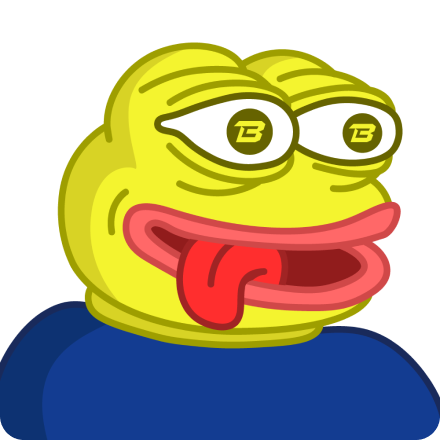
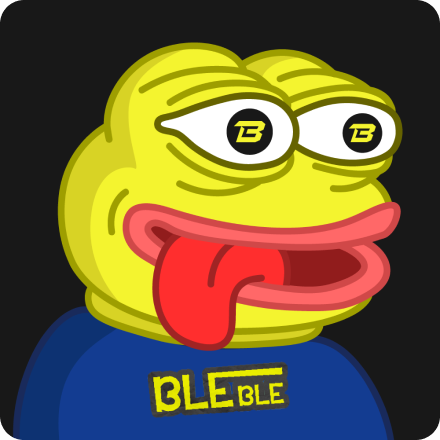
update ui

diff --git a/src/modules/Home/components/Nftnomics/index.tsx b/src/modules/Home/components/Nftnomics/index.tsx
@@ -1,5 +1,13 @@
 "use client";
-import { Box, Flex, SimpleGrid, Stack, Text } from "@chakra-ui/react";
+import {
+  Box,
+  Flex,
+  ListItem,
+  SimpleGrid,
+  Stack,
+  Text,
+  UnorderedList,
+} from "@chakra-ui/react";
 import gsap from "gsap";
 import { ScrollTrigger } from "gsap/dist/ScrollTrigger";
 import Image from "next/image";
@@ -51,22 +59,33 @@ export default function HomeNftnomics(): React.ReactElement {
 
         <Stack spacing={6} ref={textRef} justifyContent="center">
           <Title className={s.nftnomics_title} color="brand.yellow.100">
-            Nft nomics
+            Nft Nomics
           </Title>
           <Stack gap={0}>
             <Title size="md" color="brand.yellow.100">
-              Total supply:
-            </Title>
-            <Title size="md" color="brand.yellow.100">
-              100,000,000
+              Total NFT: Coming soon
             </Title>
           </Stack>
-          <Text fontSize="3xl" color="brand.yellow.100">
-            No Taxes, No Bullshit. It’s that simple.
-          </Text>
+          <UnorderedList>
+            <ListItem>
+              <Text fontSize="2xl" color="brand.yellow.100">
+                2% Airdrop (NFT holders, Staked ETH on Blast, $PePe Holders …)
+              </Text>
+            </ListItem>
+            <ListItem>
+              <Text fontSize="2xl" color="brand.yellow.100">
+                PreSale: 48% for Add LP
+              </Text>
+            </ListItem>
+            <ListItem>
+              <Text fontSize="2xl" color="brand.yellow.100">
+                Add LP (NFT/ETH): 100%
+              </Text>
+            </ListItem>
+          </UnorderedList>
 
-          <Text fontSize="3xl" color="brand.yellow.100">
-            LP tokens are burnt, and contract ownership is renounced.
+          <Text fontSize="2xl" color="brand.yellow.100">
+            LP Are Burnt, contract Ownership is Renounced.
           </Text>
         </Stack>
       </SimpleGrid>

diff --git a/src/modules/Home/components/Hero/index.tsx b/src/modules/Home/components/Hero/index.tsx
@@ -3,7 +3,6 @@ import Image from "next/image";
 
 import Container from "@/components/Container";
 import SvgInsert from "@/components/SvgInsert";
-import Title from "@/components/Title";
 
 import s from "./style.module.scss";
 
@@ -18,10 +17,14 @@ export default function HomeHero(): React.ReactElement {
           flexDirection={{ base: "column-reverse", md: "row" }}
         >
           <Stack className={s.hero_punchline} spacing={6}>
-            <Title color="brand.yellow.100">BLE BLE</Title>
+            {/* <Title color="brand.yellow.100">BLE BLE</Title> */}
+            <Box className={s.hero_title}>
+              <Image src={"/bleble.png"} alt="blble logo" fill />
+            </Box>
             <Text fontSize="3xl" color="brand.yellow.100">
-              the most memeable meme-NFT in existence. The Monkeys have had
-              their day, it’s time for Ble Ble to take reign.
+              The First Pure MemeNFT in the Crypto Space (ERC-721, ERC-1155 &
+              ERC-404). The Blast L2 begins, it’s time for Ble Ble to take
+              reign.
             </Text>
             <HStack spacing={6}>
               <IconButton
@@ -37,14 +40,14 @@ export default function HomeHero(): React.ReactElement {
                 aria-label="telegram"
               />
             </HStack>
-            <Box className={s.hero_blastBtn_wrapper}>
+            {/* <Box className={s.hero_blastBtn_wrapper}>
               <Box className={s.hero_blastBtn}>
                 <Image src="/branding/blast.png" alt="blast" fill />
               </Box>
-            </Box>
+            </Box> */}
           </Stack>
           <Box className={s.hero_mascot}>
-            <Image src="/bleble-face.png" alt="ble ble face" fill />
+            <Image src="/bleble-group.png" alt="ble ble face" fill />
           </Box>
         </HStack>
       </Stack>

diff --git a/src/modules/Home/components/Contact/index.tsx b/src/modules/Home/components/Contact/index.tsx
@@ -11,12 +11,12 @@ export default function HomeContact(): React.ReactElement {
   return (
     <Container>
       <Flex justifyContent="center" className={s.contact}>
-        <VStack spacing={6} maxW="825px">
+        <VStack spacing={6} maxW="625px">
           <Title className={s.contact_title} color="brand.yellow.100">
             Contact
           </Title>
           <Box className={s.contact_logo}>
-            <Image src="/bleble.png" alt="logo" fill />
+            <Image src="/bleble-face.png" alt="logo" fill />
           </Box>
           <HStack spacing={6}>
             <IconButton
@@ -33,13 +33,9 @@ export default function HomeContact(): React.ReactElement {
             />
           </HStack>
           <Text fontSize="3xl" color="brand.yellow.100" textAlign="center">
-            Ble Ble NFT has no association. This NFT is simply paying homage to
-            a meme we all love and recognize.
-          </Text>
-          <Text fontSize="3xl" color="brand.yellow.100" textAlign="center">
-            Ble Ble is a meme NFT with no intrinsic value or expectation of
-            financial return. There is no formal team or roadmap. the coin is
-            completely useless and for entertainment purposes only.
+            Ble Ble NFT has no organization, no leader, no roadmap - so Ble Ble
+            has no intrinsic value. Ble Ble is simply yours, for you and for
+            strong Blast community.
           </Text>
         </VStack>
       </Flex>

diff --git a/src/constants/howToBuySteps.ts b/src/constants/howToBuySteps.ts
@@ -1,18 +1,18 @@
 export const howToBuySteps = [
   {
     image: "/metamask.png",
-    title: "Create a Wallet",
-    desc: "Download metamask or your wallet of choice from the app store or google play store for free. Desktop users, download the google chrome extension by going to metamask.io.",
+    title: "Config Blast L2 on MetaMask",
+    desc: `Network: Blast Mainnet\nRPC: http://mainnet.blast.io\nID: 81457\nSymbol: ETH\nExplorer: https://blastscan.io`,
   },
   {
     image: "/eth.png",
     title: "Get Some ETH",
-    desc: "Have ETH in your wallet to switch to BLE BLE. If you don’t have any ETH, you can buy directly on metamask, transfer from another wallet, or buy on another exchange and send it to your wallet.",
+    desc: "Have ETH on Blast in your wallet to get to BLE BLE memeNFT.",
   },
   {
     image: "/amm.png",
-    title: "Go to AMM",
-    desc: "Connect to AMM. Go to Demask.finance in google chrome or on the browser inside your Metamask app. Connect your wallet. Select BLE BLE, and confirm. When Metamask prompts you for a wallet signature, sign.",
+    title: "Go to NFT Dexs on Blast",
+    desc: "Go to NFT Dexs in google chrome or on the browser inside your Metamask app. Select BLE BLE NFT, and confirm. Congratulations on becoming a Blast member.",
   },
   {
     image: "/digital.png",

diff --git a/src/modules/Home/components/About/index.tsx b/src/modules/Home/components/About/index.tsx
@@ -37,17 +37,16 @@ export default function HomeAbout(): React.ReactElement {
           <Box className={s.about_mascot}>
             <Image src="/bleble-body.png" alt="ble ble face" fill />
           </Box>
-
           <Stack spacing={4}>
             <Title color="brand.yellow.100">About</Title>
             <Text fontSize="3xl" color="brand.yellow.100">
-              Blast Has Ble Ble
+              Ble Ble is a funny meme nft for the people, forever (zero taxes,
+              LP burnt and contract renounced).
             </Text>
+
             <Text fontSize="3xl" color="brand.yellow.100">
-              Ble Ble is here to make meme NFT great again. Launched stealth
-              with no presale, zero taxes, LP burnt and contract renounced, Ble
-              Ble is a coin for the people, forever. Fueled by pure memetic
-              power, let Ble Ble show you the way.
+              Ble Ble is here to make the Blast community great. Fueled by pure
+              memetic power, let Ble Ble show you the way to Blast.
             </Text>
           </Stack>
         </SimpleGrid>

diff --git a/src/modules/Home/components/Roadmap/index.tsx b/src/modules/Home/components/Roadmap/index.tsx
@@ -11,17 +11,17 @@ export default function HomeRoadmap(): React.ReactElement {
     <Container className={s.roadmap}>
       <VStack spacing={6} className={s.roadmap_inner}>
         <Title className={s.roadmap_title} color="brand.yellow.100">
-          Roadmap
+          3 Phases
         </Title>
         <Stack>
           <Text fontSize="3xl" color="brand.yellow.100">
-            Phase 1: Meme
+            Phase 1: Release MemeNFT.
           </Text>
           <Text fontSize="3xl" color="brand.yellow.100">
-            Phase 2: Vibe and HODL
+            Phase 2: Own & make Avatar.
           </Text>
           <Text fontSize="3xl" color="brand.yellow.100">
-            Phase 3: Meme Takeover
+            Phase 3: Ble Ble Takeover.
           </Text>
         </Stack>
       </VStack>

diff --git a/src/modules/Home/components/HowToBuy/index.tsx b/src/modules/Home/components/HowToBuy/index.tsx
@@ -42,7 +42,12 @@ export default function HomeHowToBuy(): React.ReactElement {
                     >
                       {step.title}
                     </Text>
-                    <Text fontSize="2xl" color="brand.yellow.100">
+                    <Text
+                      whiteSpace="pre-wrap"
+                      fontSize="2xl"
+                      color="brand.yellow.100"
+                      className={s.htb_desc}
+                    >
                       {step.desc}
                     </Text>
                   </Stack>

diff --git a/src/modules/Home/components/Nftnomics/style.module.scss b/src/modules/Home/components/Nftnomics/style.module.scss
@@ -31,7 +31,7 @@
     aspect-ratio: 1;
     border-radius: 50%;
     background: radial-gradient(closest-side, #121212 79%, transparent 80% 100%),
-      conic-gradient(var(--brand-yellow-200) 75%, var(--brand-camo-300) 0);
+      conic-gradient(var(--brand-yellow-200) 75%, #272c20 0);
     transform: translateX(-50%) translateY(-50%) scaleX(-1);
     left: 50% !important;
     top: 50% !important;

diff --git a/src/themes/dark/index.ts b/src/themes/dark/index.ts
@@ -221,6 +221,16 @@ const Table: ComponentStyleConfig = {
   },
 };
 
+const List: ComponentStyleConfig = {
+  baseStyle: {
+    item: {
+      "&::marker": {
+        color: "brand.yellow.100",
+      },
+    },
+  },
+};
+
 const themeDark = extendTheme({
   colors,
   config,
@@ -241,6 +251,7 @@ const themeDark = extendTheme({
     Modal,
     Select,
     Table,
+    List,
   },
 });
 

diff --git a/src/modules/Home/components/Hero/style.module.scss b/src/modules/Home/components/Hero/style.module.scss
@@ -29,8 +29,7 @@
 
   &_mascot {
     position: relative;
-    aspect-ratio: 1;
-    transform: scaleX(-1);
+    aspect-ratio: 600/533;
     width: 250px;
 
     @include min-tablet {
@@ -43,8 +42,9 @@
   }
 
   &_title {
-    font-size: 96px;
-    line-height: 100%;
+    position: relative;
+    aspect-ratio: 238/81;
+    width: 293px;
   }
 
   &_blastBtn {

diff --git a/src/layouts/Header/index.tsx b/src/layouts/Header/index.tsx
@@ -27,7 +27,7 @@ export default function Header(): React.ReactElement {
             href="/"
           >
             <Box className={s.header_logo}>
-              <Image src="/bleble.png" alt="logo" fill />
+              <Image src="/bleble-face.png" alt="logo" fill />
             </Box>
           </Button>
 

diff --git a/src/modules/Home/components/Contact/style.module.scss b/src/modules/Home/components/Contact/style.module.scss
@@ -9,8 +9,8 @@
 
   &_logo {
     position: relative;
-    width: 238px;
-    aspect-ratio: 238/80;
+    width: 90px;
+    aspect-ratio: 1;
   }
 
   &_bg {
